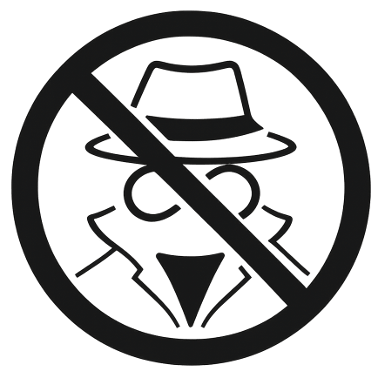
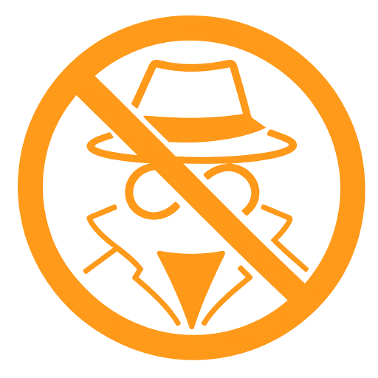
Change color to orange

diff --git a/packages/apps/src/IncognitoView.tsx b/packages/apps/src/IncognitoView.tsx
@@ -22,8 +22,6 @@ const StyledDiv = styled.div`
   min-height: 100dvh;
   text-align: center;
   flex-direction: column;
-  
-  gap: 15px;
 
   @media only screen and (max-width: 430px) {
     width: 100%;
